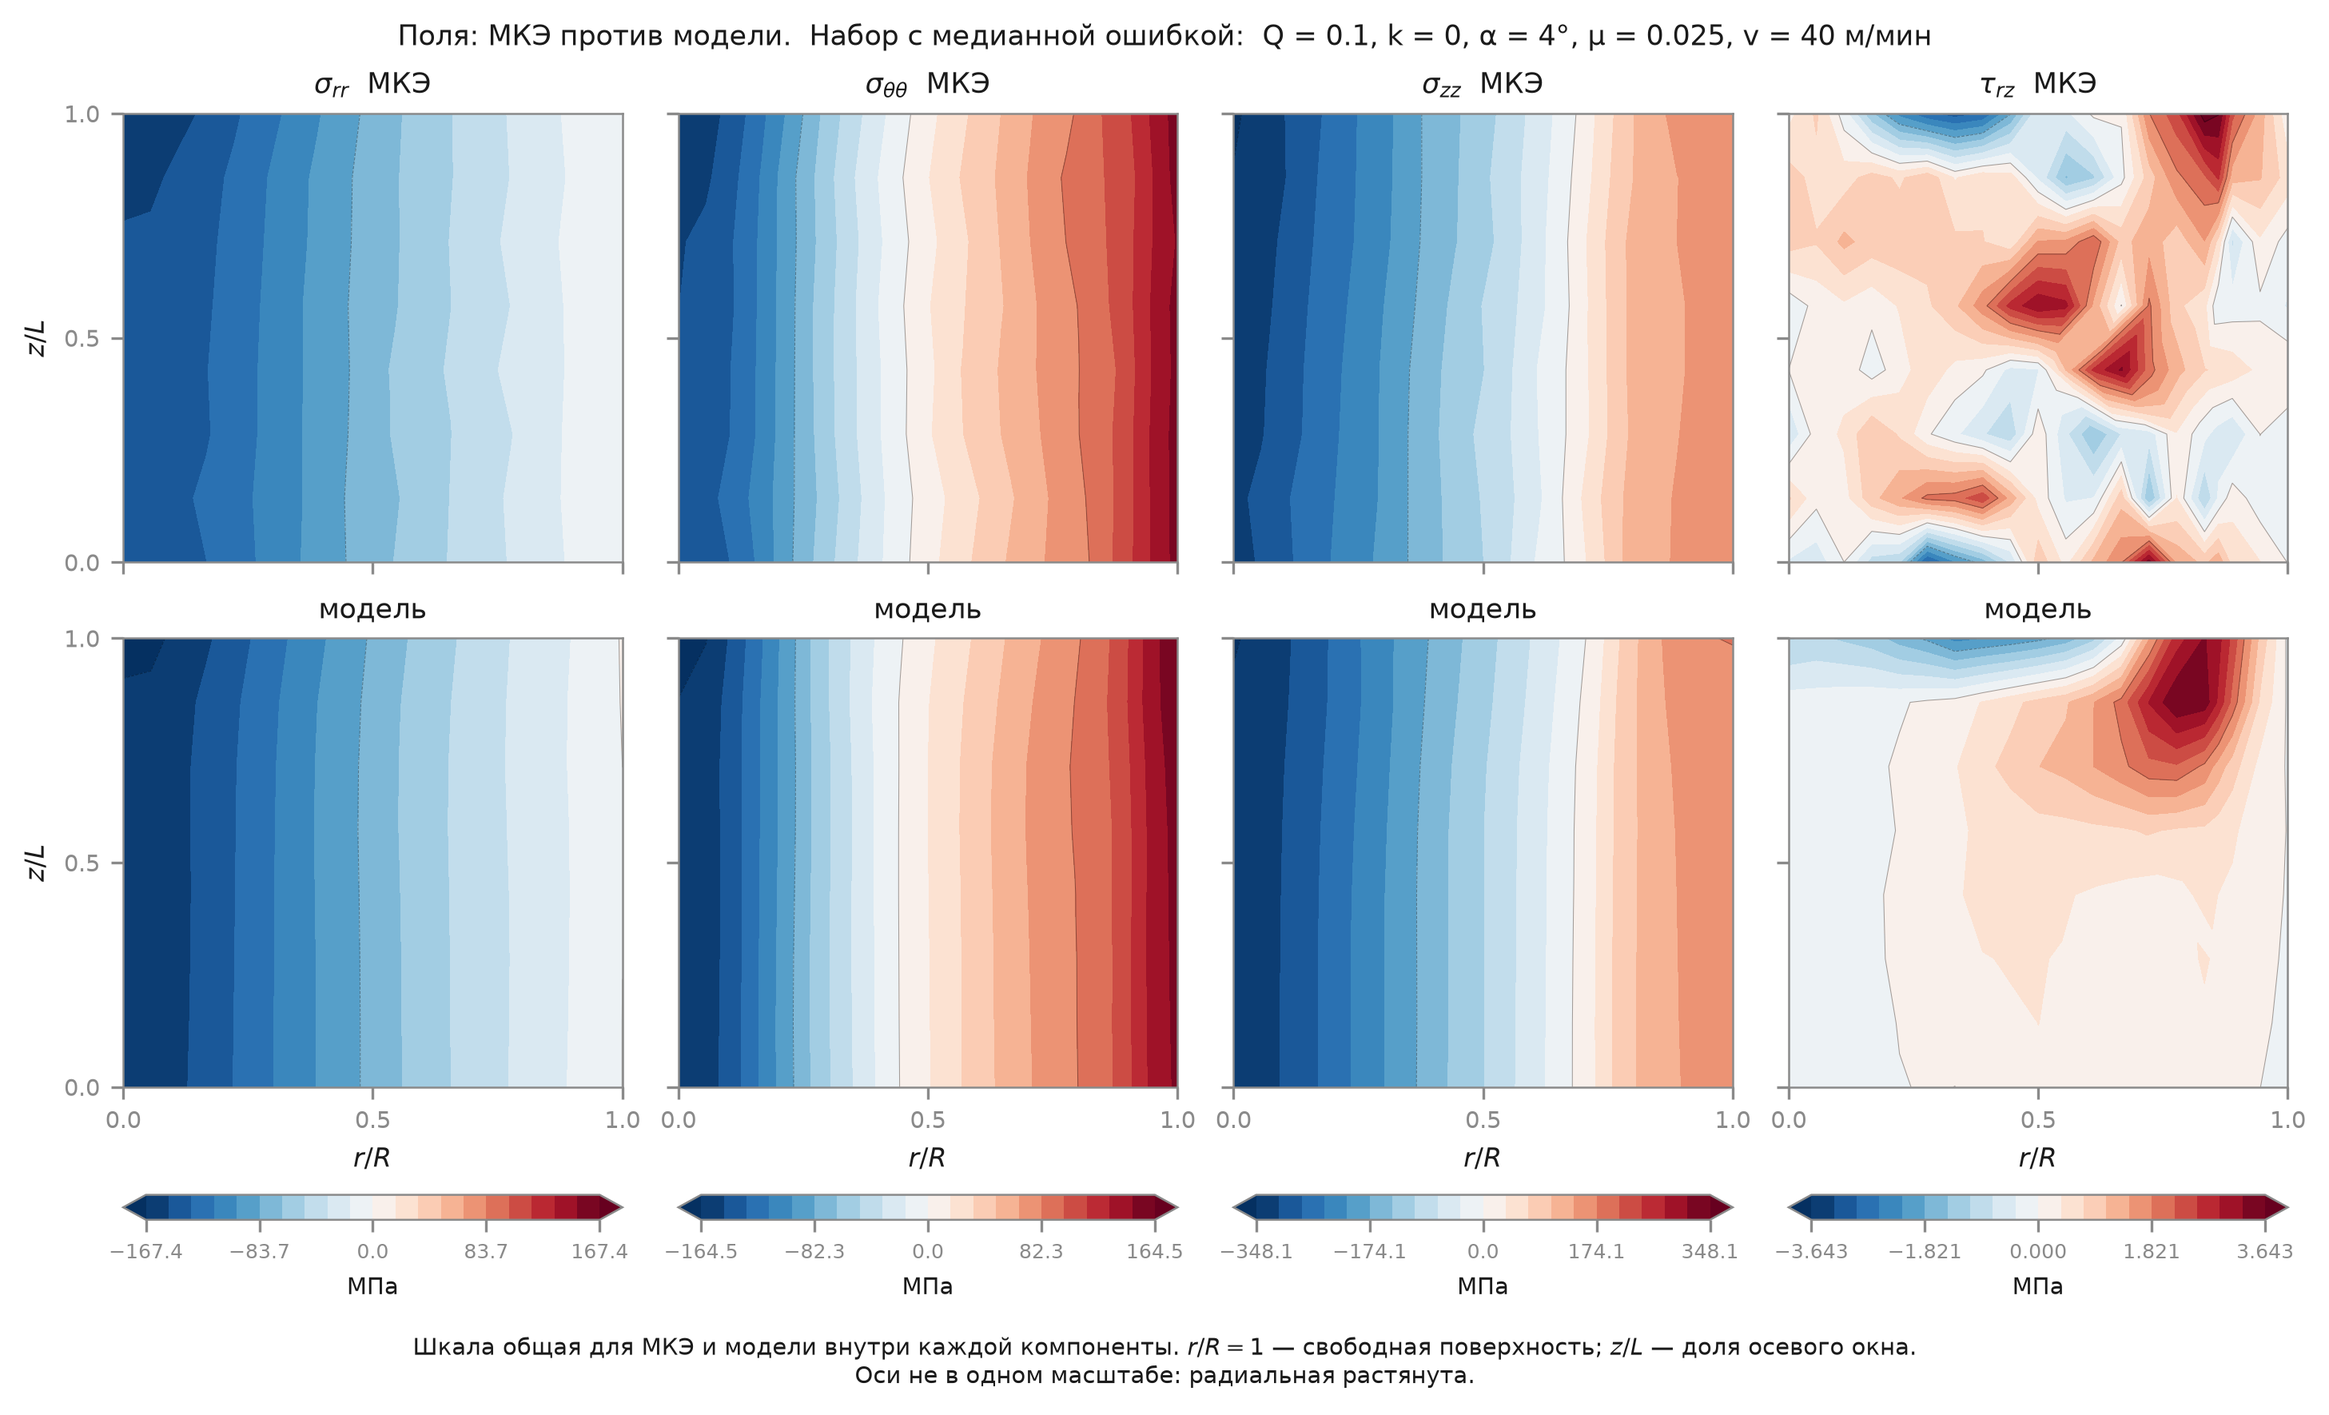
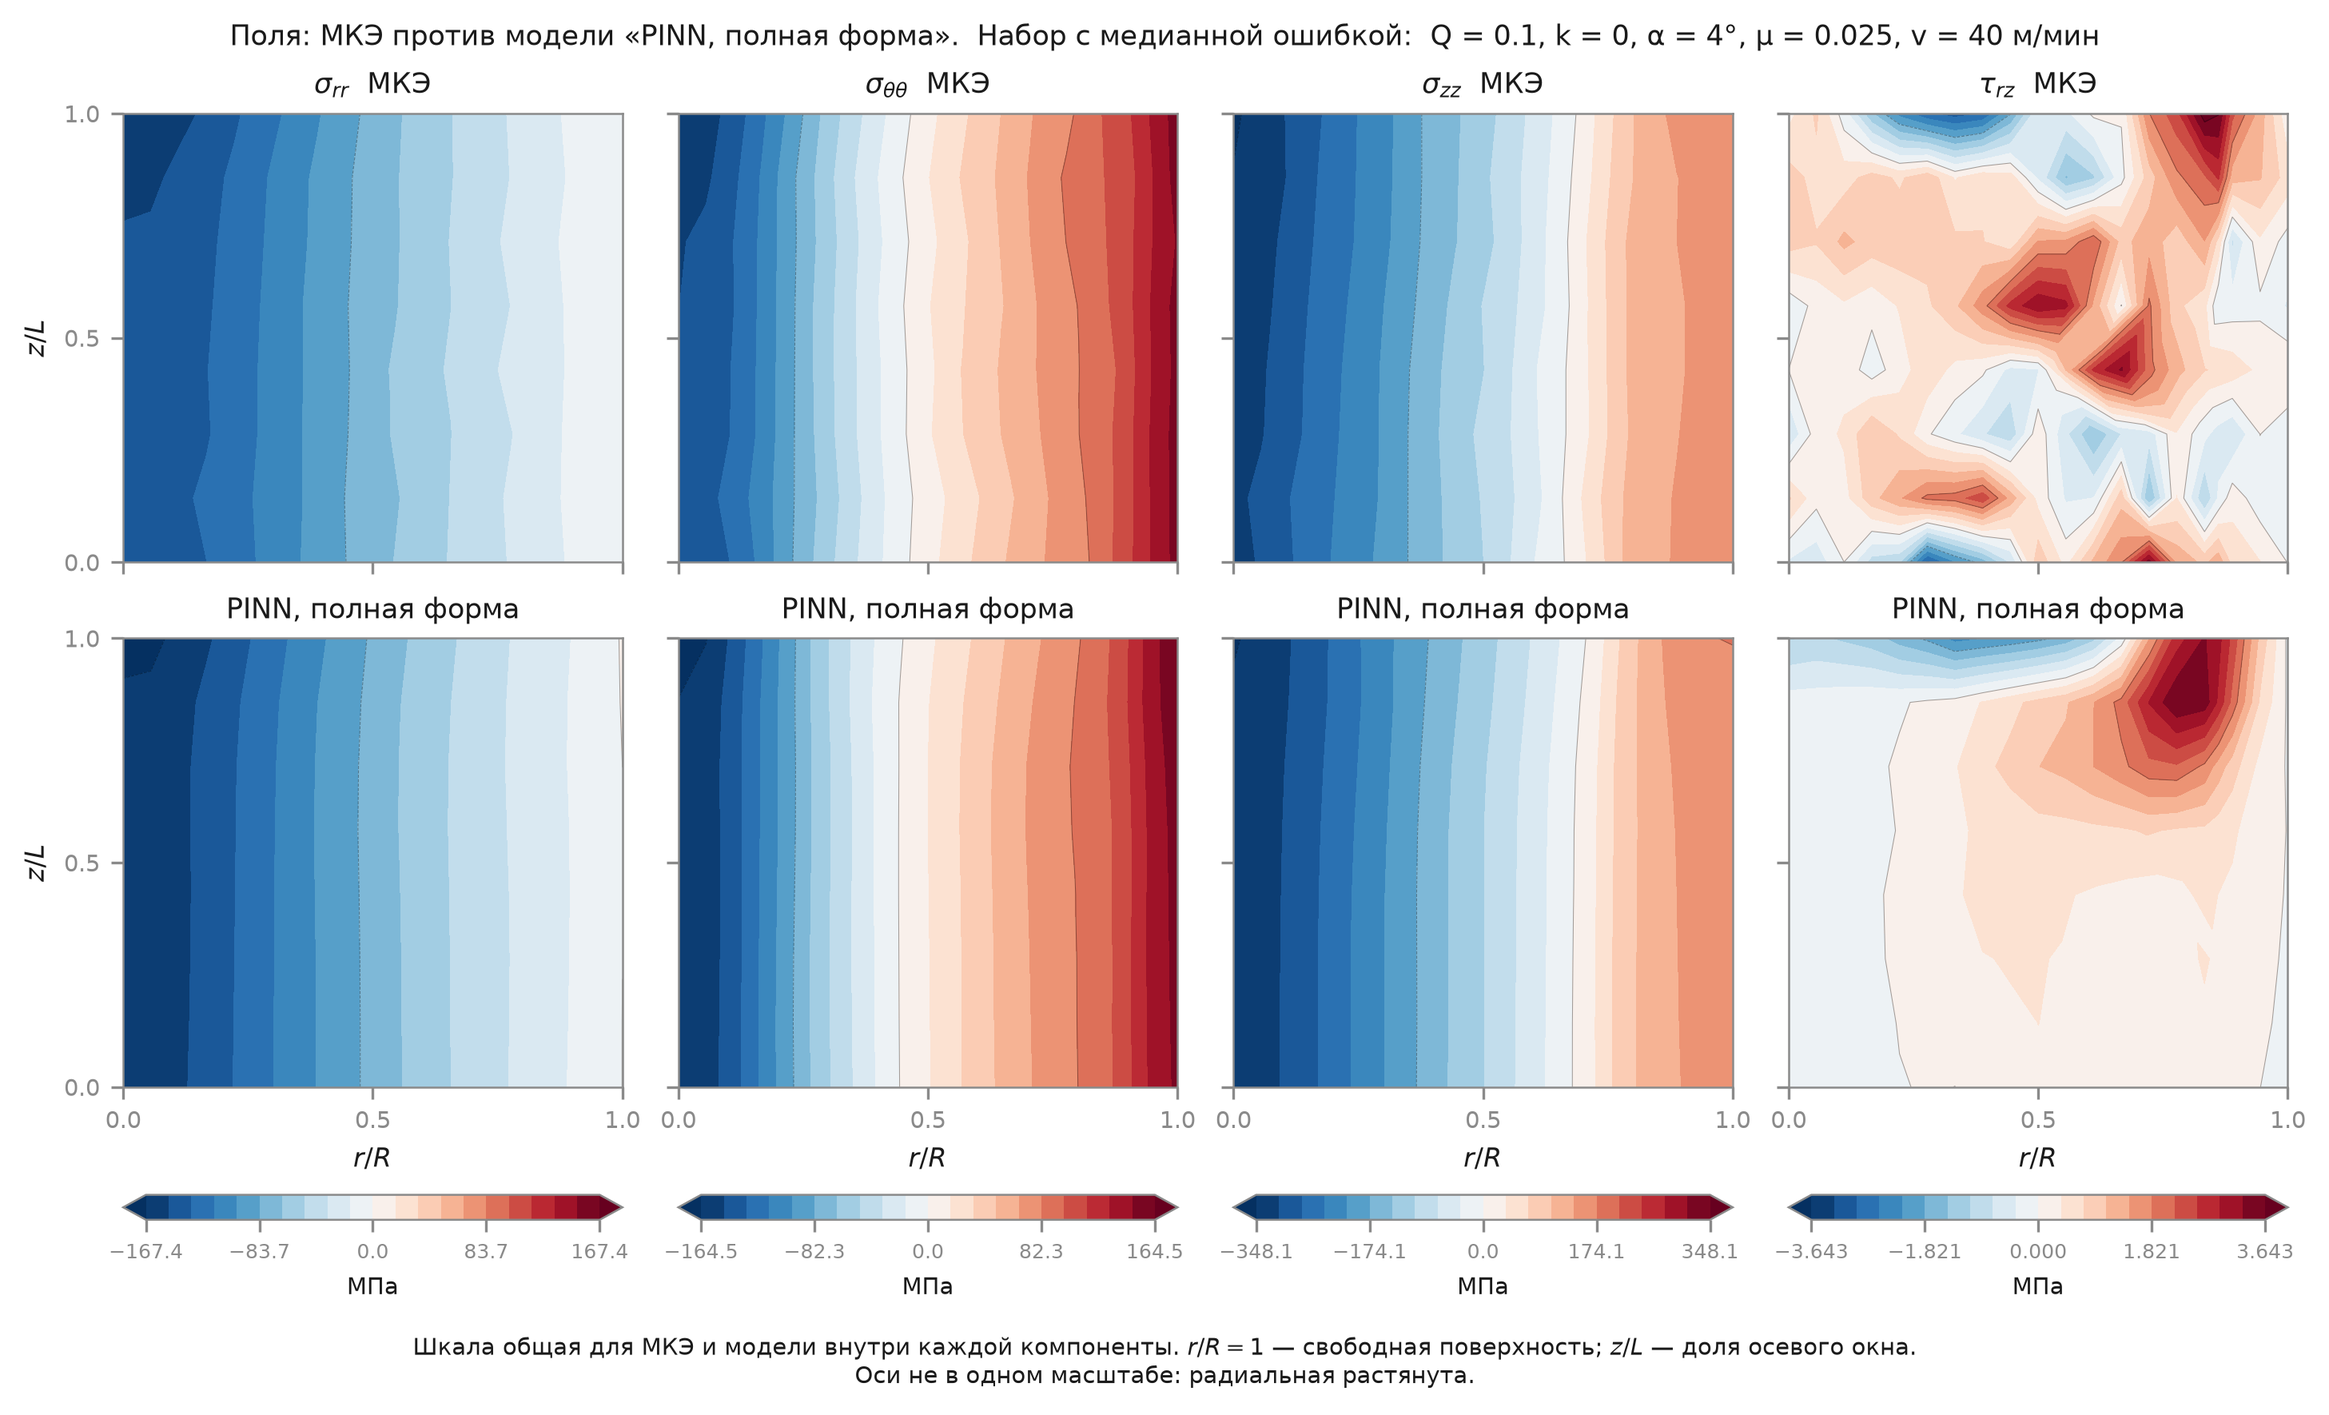
Оформление: обезразмеренная невязка, имя модели в заголовках, ресурсный вывод по бэкендам
1. fig_residual_maps: невязка была подписана 'МПа/м' со значениями порядка 3868 —
   непонятно, много это или мало. Теперь она обезразмерена делением на масштаб
   входящих в уравнение членов, тем же, что в функции потерь:
     scale_r = (sd[sigma_rr] + sd[sigma_tt]) / R_char
     scale_z =  sd[sigma_zz] / L_char + sd[tau_rz] / R_char
   Значение читается прямо: 0.1 — уравнение не сходится на 10 % от характерной
   величины своих членов. Медианы стали:
     R_r  МКЭ 0.041 | MLP 0.115 | PINN редуц. 0.064 | PINN полный 0.062
     R_z  МКЭ 0.091 | MLP 0.074 | PINN редуц. 0.064 | PINN полный 0.047
   Масштабы берутся из данных МКЭ и ОДНИ на все семейства — иначе каждое
   нормировалось бы на себя и панели стали бы несравнимы.

2. На картах полей и невязок вместо безличного 'модель' теперь стоит имя
   семейства: у нас их три, и читатель обязан видеть, о каком речь. Метка
   пишется в npz при сохранении предсказаний, с запасным вариантом по имени
   файла.

3. Бэкенды: вывод переформулирован в ресурсной логике. Согласие реализаций —
   основание для выбора более дешёвой. Замеры (10 прогонов каждой):
     полное обучение   PyTorch 313 ± 102 с | JAX 516 ± 94 с   x1.65
     на эпоху          PyTorch 0.575 с     | JAX 0.745 с      x1.30 (p = 0.0009)
     эпох до останова  PyTorch 538         | JAX 695          x1.29
   Точность неразличима (p = 0.169 и 0.269). Отставание JAX складывается поровну
   из скорости на эпоху и из большего числа эпох до ранней остановки.
[…]

diff --git a/publication/experiments/contours.py b/publication/experiments/contours.py
@@ -156,6 +156,26 @@ ROWS4 = [(r"$\sigma_{rr}$", 0), (r"$\sigma_{\theta\theta}$", 1),
          (r"$\sigma_{zz}$", 2), (r"$\tau_{rz}$", 3)]
 
 
+def _model_label(npz: str, d) -> str:
+    """
+    Как называется модель на этом рисунке.
+
+    Без этого «модель» на панели ничего не значит: у нас три семейства,
+    отличающихся составом лосса, и читатель обязан видеть, о каком речь.
+    Берётся из поля `family` в npz, если оно есть, иначе из имени файла.
+    """
+    if "family" in getattr(d, "files", []):
+        return str(d["family"])
+    base = os.path.basename(npz)
+    for key, name in (("pinn2d_full", "PINN, полная форма"),
+                      ("pinn2d_reduced", "PINN, редуц. форма"),
+                      ("mlp2d", "MLP"),
+                      ("noncone", "PINN, полная форма")):
+        if key in base:
+            return name
+    return "модель"
+
+
 def fig_fields(npz: str, out: str, which: int = -1,
                where: Optional[Dict[str, float]] = None):
     """
@@ -173,12 +193,13 @@ def fig_fields(npz: str, out: str, which: int = -1,
     R = d["r"][which]
     Z = np.repeat(d["z"][which][:, None], yt.shape[1], axis=1)
 
+    mlab = _model_label(npz, d)
     fig, axes = plt.subplots(2, 4, figsize=(9.6, 5.4), sharex=True, sharey=True,
                              layout="constrained")
     for j, (tex, c) in enumerate(ROWS4):
         lim = _sym(np.concatenate([yt[:, :, c].ravel(), yp[:, :, c].ravel()]))
         lev = np.linspace(-lim, lim, 21)
-        for i, (v, who) in enumerate(((yt[:, :, c], "МКЭ"), (yp[:, :, c], "модель"))):
+        for i, (v, who) in enumerate(((yt[:, :, c], "МКЭ"), (yp[:, :, c], mlab))):
             ax = axes[i, j]
             cf = ax.contourf(R, Z, v, levels=lev, cmap=DIVERGING, extend="both")
             ax.contour(R, Z, v, levels=lev[::5], colors="k",
@@ -194,8 +215,8 @@ def fig_fields(npz: str, out: str, which: int = -1,
         cb.set_label("МПа", fontsize=7)
         cb.ax.tick_params(labelsize=6, color=MUTED)
         axes[1, j].set_xlabel(r"$r/R$")
-    fig.suptitle(f"Поля: МКЭ против модели.  Набор с медианной ошибкой:  "
-                 f"{_regime(d['proc'][which])}", fontsize=8.5)
+    fig.suptitle(f"Поля: МКЭ против модели «{mlab}».  Набор с медианной "
+                 f"ошибкой:  {_regime(d['proc'][which])}", fontsize=8.5)
     fig.text(0.5, -0.02,
              r"Шкала общая для МКЭ и модели внутри каждой компоненты. "
              r"$r/R = 1$ — свободная поверхность; $z/L$ — доля осевого окна."
@@ -277,8 +298,8 @@ def fig_errors(npz: str, out: str, which: int = -1,
             r2c = 1.0 - ((qc - tc) ** 2).sum() / ((tc - tc.mean()) ** 2).sum()
             part += f" (чистые {np.sqrt(((qc - tc) ** 2).mean()):.1f} / {r2c:.2f})"
         summ.append(part)
-    fig.suptitle(f"Невязка модель − МКЭ.  Набор с медианной ошибкой:  "
-                 f"{_regime(d['proc'][which])}", fontsize=8.5)
+    fig.suptitle(f"Невязка «{_model_label(npz, d)}» − МКЭ.  Набор с медианной "
+                 f"ошибкой:  {_regime(d['proc'][which])}", fontsize=8.5)
     note = ("Заголовок панели — RMSE ЭТОГО набора. "
             + ("Шкала общая на все четыре панели: компоненты сравнимы напрямую."
                if diff_mode == "rel" else
@@ -513,7 +534,7 @@ def fig_model(npz: str, out: str, which: int = -1,
             dttl = f"невязка, МПа  ({100 * dlim / lim:.0f} % от масштаба)"
         cf_pair = None
         for j, (v, ttl, L) in enumerate(((t, "МКЭ", lim),
-                                         (q, "модель", lim),
+                                         (q, _model_label(npz, d), lim),
                                          (dv, dttl, dlim))):
             ax = axes[i, j]
             lev = np.linspace(-L, L, 21)
@@ -549,9 +570,9 @@ def fig_model(npz: str, out: str, which: int = -1,
         cbd.set_label("% от масштаба компоненты", fontsize=7)
         cbd.ax.tick_params(labelsize=6.5, color=MUTED)
 
-    fig.suptitle(f"Набор с медианной ошибкой:  Q = {proc[0]:g}, k = {proc[1]:g}, "
-                 f"α = {proc[2]:g}°, μ = {proc[3]:g}, v = {proc[4]:g} м/мин",
-                 fontsize=8.5)
+    fig.suptitle(f"Модель «{_model_label(npz, d)}».  Набор с медианной ошибкой:  "
+                 f"Q = {proc[0]:g}, k = {proc[1]:g}, α = {proc[2]:g}°, "
+                 f"μ = {proc[3]:g}, v = {proc[4]:g} м/мин", fontsize=8.5)
     note = (r"$r/R$ — радиус, отнесённый к поверхности в том же сечении "
             r"($r/R = 1$ — свободная поверхность); $z/L$ — доля осевого окна."
             "\n")

diff --git a/publication/RESULTS_v1_vs_v2.md b/publication/RESULTS_v1_vs_v2.md
@@ -237,6 +237,37 @@ PyTorch и JAX, 5 сидов.
 независимых реализаций автодифференцирования две, а не три, как заявлено в
 рукописи (E-19). Производные torch и JAX совпадают до 8.7e-15 на общих входах.
 
+### Практический вывод: раз результат один, брать надо более дешёвую
+
+Согласие реализаций — это не самоцель, а основание для выбора. Если две
+реализации дают статистически неразличимый результат, разумно взять ту, что
+дешевле по ресурсам. Замеры на той же стадии `backend` (10 прогонов каждой,
+одна и та же модель, один и тот же протокол):
+
+| | PyTorch | JAX | отношение |
+|---|---|---|---|
+| полное обучение, с | **313 ± 102** | 516 ± 94 | **×1.65** |
+| время на эпоху, с | **0.575** | 0.745 | ×1.30 (p = 0.0009) |
+| эпох до ранней остановки | 538 | 695 | ×1.29 |
+| macro-RMSE, `random` | 7.98 ± 0.21 | 8.12 ± 0.18 | не различаются (p = 0.269) |
+| macro-RMSE, `extrap:alpha_max` | 13.05 ± 0.49 | 13.49 ± 0.30 | не различаются (p = 0.169) |
+
+Отставание JAX складывается из двух примерно равных частей: он на 30 % медленнее
+на эпоху и ему требуется на 29 % больше эпох до срабатывания ранней остановки.
+
+**Формулировка для рукописи.** Две независимые реализации автоматического
+дифференцирования дают статистически неразличимые результаты (p = 0.17 и 0.27),
+что подтверждает: наблюдаемые эффекты — свойство метода, а не конкретной
+библиотеки. При равенстве результата дальнейшие вычисления имеет смысл вести на
+более дешёвой реализации; в наших условиях (CPU, двойная точность) это PyTorch,
+дающий полное обучение в 1.65 раза быстрее.
+
+Оговорка, без которой утверждение будет неверным: замеры сделаны на CPU в
+float64. На GPU и в float32 соотношение может быть иным — JIT-компиляция JAX
+окупается на длинных однородных прогонах, а здесь их прерывает ранняя
+остановка. Переносить вывод на другие условия нельзя, и в статье это надо
+оговорить.
+
 ## 8. Сводка: что заявлять в рукописи
 
 | тезис | статус |
